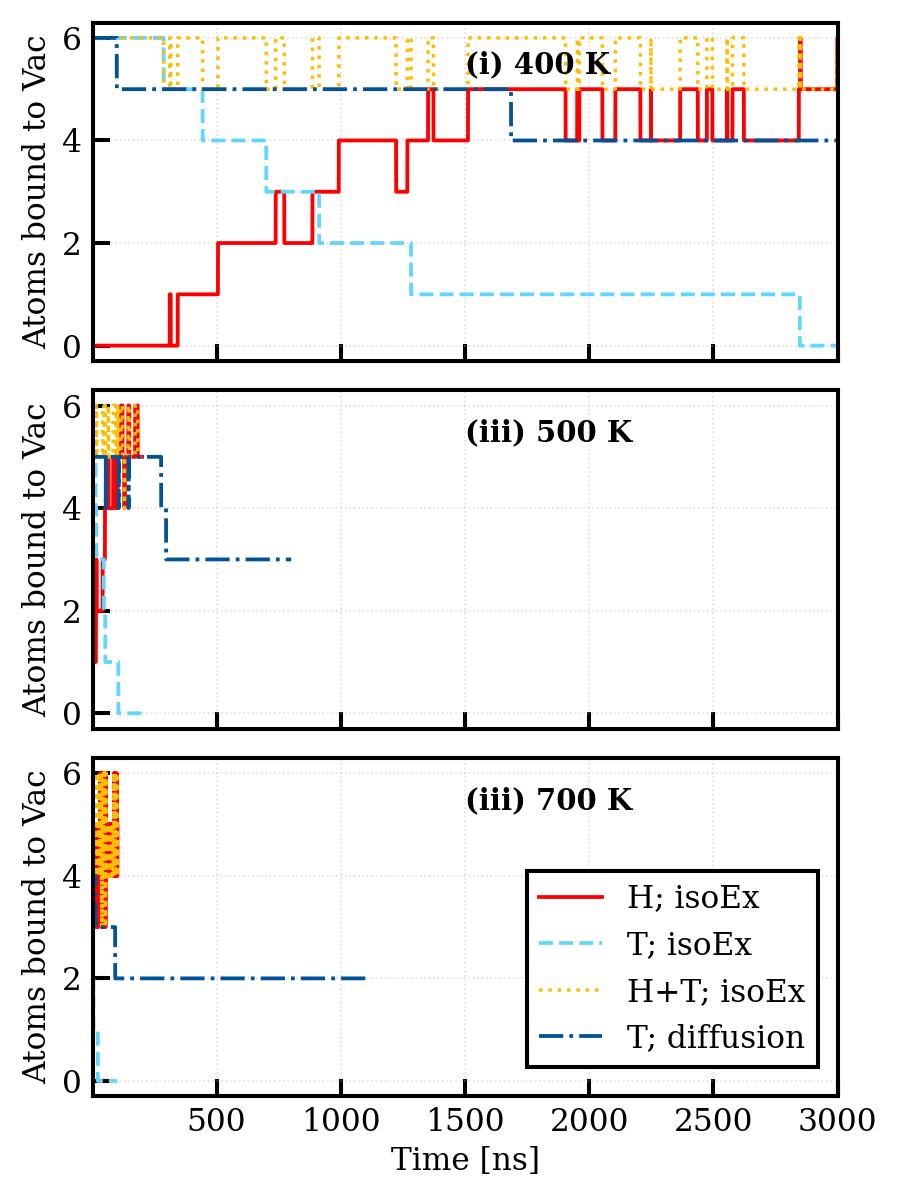
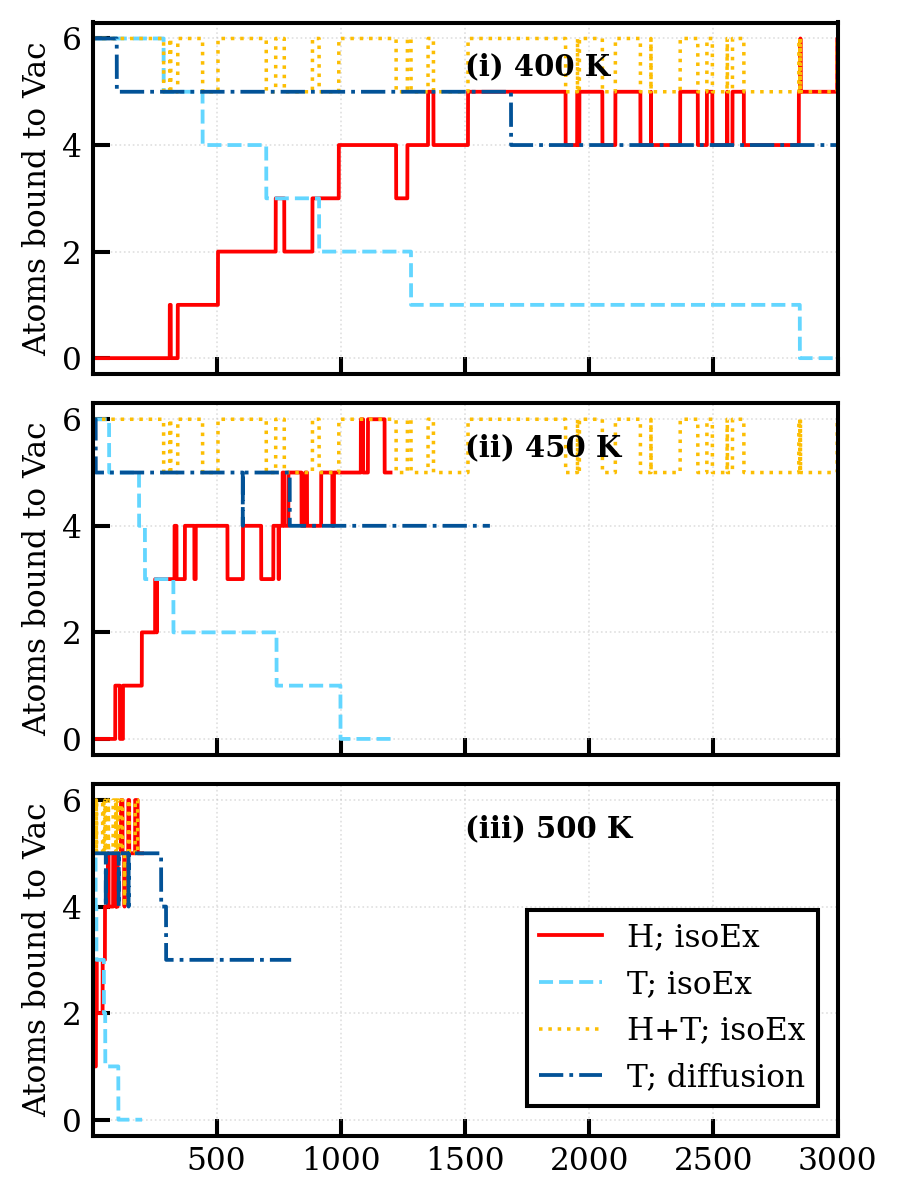
drop 700K data from 1Vac plots

diff --git a/plotting-scripts/plot_1Vac_isoEx_comp.py b/plotting-scripts/plot_1Vac_isoEx_comp.py
@@ -10,24 +10,24 @@ path += '1Vac_isoEx_results/'
 
 # HinVac.out format: Timestep NTinVac NHinVac NTinCell
 tTH_isoEx_400K = readData(path+'1Vac_2000W_20H_6T_400K_3100ns/HinVac.out', [0,1,2])
-#tTH_isoEx_450K = readData(path+'1Vac_2000W_20H_6T_450K_1200ns/HinVac.out', [0,1,2])
+tTH_isoEx_450K = readData(path+'1Vac_2000W_20H_6T_450K_1200ns/HinVac.out', [0,1,2])
 tTH_isoEx_500K = readData(path+'1Vac_2000W_20H_6T_500K_200ns/HinVac.out', [0,1,2])
 tTH_isoEx_700K = readData(path+'1Vac_2000W_20H_6T_700K_100ns/HinVac.out', [0,1,2])
 tT_diff_400K = readData(path+'1Vac_2000W_0H_6T_400K_3200ns/HinVac.out', [0,1])
-#tT_diff_450K = readData(path+'1Vac_2000W_0H_6T_450K_1600ns/HinVac.out', [0,1]) 
+tT_diff_450K = readData(path+'1Vac_2000W_0H_6T_450K_1600ns/HinVac.out', [0,1]) 
 tT_diff_500K = readData(path+'1Vac_2000W_0H_6T_500K_800ns/HinVac.out', [0,1])
-tT_diff_700K = readData(path+'1Vac_2000W_0H_6T_700K_1100ns/HinVac.out', [0,1]) 
+#tT_diff_700K = readData(path+'1Vac_2000W_0H_6T_700K_1100ns/HinVac.out', [0,1]) 
 
 # Convert timesteps --> time in ns
 cf = 1e-6
 tTH_isoEx_400K[:,0] *= cf
-#tTH_isoEx_450K[:,0] *= cf
+tTH_isoEx_450K[:,0] *= cf
 tTH_isoEx_500K[:,0] *= cf
-tTH_isoEx_700K[:,0] *= cf
+#tTH_isoEx_700K[:,0] *= cf
 tT_diff_400K[:,0] *= cf
-#tT_diff_450K[:,0] *= cf
+tT_diff_450K[:,0] *= cf
 tT_diff_500K[:,0] *= cf
-tT_diff_700K[:,0] *= cf
+#tT_diff_700K[:,0] *= cf
 
 
 # ============================== PLOT STUFF =============================
@@ -64,20 +64,20 @@ plt.text(1500, 5.3, '(i) 400 K', font)
 plt.gca().axes.get_xaxis().set_ticklabels([]) # Hide x-axis tick labels
 
 # 450 K
-# plt.subplot(3,1,2)
-# init, step, final = [0,10,-1]
-# plotter(tTH_isoEx_450K[init:final:step, 0], tTH_isoEx_450K[init:final:step, 2], isoEx_style['H_iso'], isoEx_labels['H_iso'])
-# plotter(tTH_isoEx_450K[init:final:step, 0], tTH_isoEx_450K[init:final:step, 1], isoEx_style['T_iso'], isoEx_labels['T_iso'])
-# plotter(tTH_isoEx_400K[init:final:step, 0], tTH_isoEx_400K[init:final:step,1]+tTH_isoEx_400K[init:final:step,2], isoEx_style['H+T'], isoEx_labels['H+T'])
-# plotter(tT_diff_450K[:, 0], tT_diff_450K[:, 1], isoEx_style['T_diff'], isoEx_labels['T_diff'])
-# plt.xlim((1, xulim))
-# #plt.xlabel(xlbl)
-# plt.ylabel(ylbl)
-# plt.text(1500, 5.3, '(ii) 450 K', font)
-# plt.gca().axes.get_xaxis().set_ticklabels([]) # Hide x-axis tick labels
+plt.subplot(3,1,2)
+init, step, final = [0,10,-1]
+plotter(tTH_isoEx_450K[init:final:step, 0], tTH_isoEx_450K[init:final:step, 2], isoEx_style['H_iso'], isoEx_labels['H_iso'])
+plotter(tTH_isoEx_450K[init:final:step, 0], tTH_isoEx_450K[init:final:step, 1], isoEx_style['T_iso'], isoEx_labels['T_iso'])
+plotter(tTH_isoEx_400K[init:final:step, 0], tTH_isoEx_400K[init:final:step,1]+tTH_isoEx_400K[init:final:step,2], isoEx_style['H+T'], isoEx_labels['H+T'])
+plotter(tT_diff_450K[:, 0], tT_diff_450K[:, 1], isoEx_style['T_diff'], isoEx_labels['T_diff'])
+plt.xlim((1, xulim))
+#plt.xlabel(xlbl)
+plt.ylabel(ylbl)
+plt.text(1500, 5.3, '(ii) 450 K', font)
+plt.gca().axes.get_xaxis().set_ticklabels([]) # Hide x-axis tick labels
 
 # 500 K
-plt.subplot(3,1,2)
+plt.subplot(3,1,3)
 init, step, final = [0,10,-1]
 plotter(tTH_isoEx_500K[init:final:step, 0], tTH_isoEx_500K[init:final:step, 2], isoEx_style['H_iso'], isoEx_labels['H_iso'])
 plotter(tTH_isoEx_500K[init:final:step, 0], tTH_isoEx_500K[init:final:step, 1], isoEx_style['T_iso'], isoEx_labels['T_iso'])
@@ -86,20 +86,20 @@ plotter(tT_diff_500K[:, 0], tT_diff_500K[:, 1], isoEx_style['T_diff'], isoEx_lab
 plt.xlim((1, xulim))
 plt.ylabel(ylbl)
 plt.text(1500, 5.3, '(iii) 500 K', font)
-plt.gca().axes.get_xaxis().set_ticklabels([]) # Hide x-axis tick labels
-
-# 700 K
-plt.subplot(3,1,3)
-plotter(tTH_isoEx_700K[init:final:step, 0], tTH_isoEx_700K[init:final:step,2], isoEx_style['H_iso'], isoEx_labels['H_iso'])
-plotter(tTH_isoEx_700K[init:final:step, 0], tTH_isoEx_700K[init:final:step,1], isoEx_style['T_iso'], isoEx_labels['T_iso'])
-plotter(tTH_isoEx_700K[init:final:step, 0], tTH_isoEx_700K[init:final:step,1]+tTH_isoEx_700K[init:final:step,2], isoEx_style['H+T'], isoEx_labels['H+T'])
-plotter(tT_diff_700K[init:final:step, 0], tT_diff_700K[init:final:step, 1], isoEx_style['T_diff'], isoEx_labels['T_diff'])
-plt.xlim((1, xulim))
-plt.xlabel(xlbl)
-plt.ylabel(ylbl)
 leg = plt.legend(loc='lower right', bbox_to_anchor=(0.99, 0.05))
 leg.get_frame().set_linewidth(1.5*pltm)  # Legend bow linewidth
-plt.text(1500, 5.3, '(iii) 700 K', font)
+#plt.gca().axes.get_xaxis().set_ticklabels([]) # Hide x-axis tick labels
+
+# 700 K
+#plt.subplot(3,1,3)
+#plotter(tTH_isoEx_700K[init:final:step, 0], tTH_isoEx_700K[init:final:step,2], isoEx_style['H_iso'], isoEx_labels['H_iso'])
+#plotter(tTH_isoEx_700K[init:final:step, 0], tTH_isoEx_700K[init:final:step,1], isoEx_style['T_iso'], isoEx_labels['T_iso'])
+#plotter(tTH_isoEx_700K[init:final:step, 0], tTH_isoEx_700K[init:final:step,1]+tTH_isoEx_700K[init:final:step,2], isoEx_style['H+T'], isoEx_labels['H+T'])
+#plotter(tT_diff_700K[init:final:step, 0], tT_diff_700K[init:final:step, 1], isoEx_style['T_diff'], isoEx_labels['T_diff'])
+#plt.xlim((1, xulim))
+#plt.xlabel(xlbl)
+#plt.ylabel(ylbl)
+#plt.text(1500, 5.3, '(iii) 700 K', font)
 
 # Show & save figure
 plt.tight_layout()
@@ -128,20 +128,20 @@ plt.text(2, 5.3, '(i) 400 K', font)
 plt.gca().axes.get_xaxis().set_ticklabels([]) # Hide x-axis tick labels
 
 # 450 K
-# plt.subplot(3,1,2)
-# init, step, final = [0,10,-1]
-# plotter(tTH_isoEx_450K[init:final:step, 0], tTH_isoEx_450K[init:final:step, 2], isoEx_style['H_iso'], isoEx_labels['H_iso'])
-# plotter(tTH_isoEx_450K[init:final:step, 0], tTH_isoEx_450K[init:final:step, 1], isoEx_style['T_iso'], isoEx_labels['T_iso'])
-# plotter(tTH_isoEx_450K[init:final:step, 0], tTH_isoEx_450K[init:final:step,1]+tTH_isoEx_450K[init:final:step,2], isoEx_style['H+T'], isoEx_labels['H+T'])
-# plotter(tT_diff_450K[:, 0], tT_diff_450K[:, 1], isoEx_style['T_diff'], isoEx_labels['T_diff'])
-# plt.xlim((1, xulim))
+plt.subplot(3,1,2)
+init, step, final = [0,10,-1]
+plotter(tTH_isoEx_450K[init:final:step, 0], tTH_isoEx_450K[init:final:step, 2], isoEx_style['H_iso'], isoEx_labels['H_iso'])
+plotter(tTH_isoEx_450K[init:final:step, 0], tTH_isoEx_450K[init:final:step, 1], isoEx_style['T_iso'], isoEx_labels['T_iso'])
+plotter(tTH_isoEx_450K[init:final:step, 0], tTH_isoEx_450K[init:final:step,1]+tTH_isoEx_450K[init:final:step,2], isoEx_style['H+T'], isoEx_labels['H+T'])
+plotter(tT_diff_450K[:, 0], tT_diff_450K[:, 1], isoEx_style['T_diff'], isoEx_labels['T_diff'])
+plt.xlim((1, xulim))
 # #plt.xlabel(xlbl)
-# plt.ylabel(ylbl)
-# plt.text(2, 5.3, '(ii) 450 K', font)
-# plt.gca().axes.get_xaxis().set_ticklabels([]) # Hide x-axis tick labels
+plt.ylabel(ylbl)
+plt.text(2, 5.3, '(ii) 450 K', font)
+plt.gca().axes.get_xaxis().set_ticklabels([]) # Hide x-axis tick labels
 
 # 500 K
-plt.subplot(3,1,2)
+plt.subplot(3,1,3)
 init, step, final = [0,10,-1]
 plotter(tTH_isoEx_500K[init:final:step, 0], tTH_isoEx_500K[init:final:step, 2], isoEx_style['H_iso'], isoEx_labels['H_iso'])
 plotter(tTH_isoEx_500K[init:final:step, 0], tTH_isoEx_500K[init:final:step, 1], isoEx_style['T_iso'], isoEx_labels['T_iso'])
@@ -150,18 +150,18 @@ plotter(tT_diff_500K[:, 0], tT_diff_500K[:, 1], isoEx_style['T_diff'], isoEx_lab
 plt.xlim((1, xulim))
 plt.ylabel(ylbl)
 plt.text(2, 5.3, '(iii) 500 K', font)
-plt.gca().axes.get_xaxis().set_ticklabels([]) # Hide x-axis tick labels
+#plt.gca().axes.get_xaxis().set_ticklabels([]) # Hide x-axis tick labels
 
 # 700 K
-plt.subplot(3,1,3)
-plotter(tTH_isoEx_700K[init:final:step, 0], tTH_isoEx_700K[init:final:step,2], isoEx_style['H_iso'], isoEx_labels['H_iso'])
-plotter(tTH_isoEx_700K[init:final:step, 0], tTH_isoEx_700K[init:final:step,1], isoEx_style['T_iso'], isoEx_labels['T_iso'])
-plotter(tTH_isoEx_700K[init:final:step, 0], tTH_isoEx_700K[init:final:step,1]+tTH_isoEx_700K[init:final:step,2], isoEx_style['H+T'], isoEx_labels['H+T'])
-plotter(tT_diff_700K[init:final:step, 0], tT_diff_700K[init:final:step, 1], isoEx_style['T_diff'], isoEx_labels['T_diff'])
-plt.xlim((1, xulim))
-plt.xlabel(xlbl)
-plt.ylabel(ylbl)
-plt.text(2, 5.3, '(iii) 700 K', font)
+#plt.subplot(3,1,3)
+#plotter(tTH_isoEx_700K[init:final:step, 0], tTH_isoEx_700K[init:final:step,2], isoEx_style['H_iso'], isoEx_labels['H_iso'])
+#plotter(tTH_isoEx_700K[init:final:step, 0], tTH_isoEx_700K[init:final:step,1], isoEx_style['T_iso'], isoEx_labels['T_iso'])
+#plotter(tTH_isoEx_700K[init:final:step, 0], tTH_isoEx_700K[init:final:step,1]+tTH_isoEx_700K[init:final:step,2], isoEx_style['H+T'], isoEx_labels['H+T'])
+#plotter(tT_diff_700K[init:final:step, 0], tT_diff_700K[init:final:step, 1], isoEx_style['T_diff'], isoEx_labels['T_diff'])
+#plt.xlim((1, xulim))
+#plt.xlabel(xlbl)
+#plt.ylabel(ylbl)
+#plt.text(2, 5.3, '(iii) 700 K', font)
 
 # Show & save figure
 plt.tight_layout()

diff --git a/plotting-scripts/plot_2Vac_isoEx_comp.py b/plotting-scripts/plot_2Vac_isoEx_comp.py
@@ -12,9 +12,9 @@ path += '2Vac_isoEx_results/'
 tTH_isoEx = readData(path+'2Vac_2000W_20H_10T_500K_500ns/HinVac.out', [0,1,2])
 tTH_diff  = readData(path+'2Vac_2000W_0H_10T_500K_1000ns/HinVac.out', [0,1,2])
 tTH_isoEx_400K = readData(path+'2Vac_2000W_20H_10T_400K_700ns/HinVac.out', [0,1,2])
-tT_diff_400K  = readData(path+'2Vac_2000W_0H_10T_400K_700ns/HinVac.out', [0,1,2])
-tTH_isoEx_700K = readData(path+'2Vac_2000W_20H_10T_700K_100ns/HinVac.out', [0,1,2])
-tT_diff_700K  = readData(path+'2Vac_2000W_0H_10T_700K_1000ns/HinVac.out', [0,1,2])
+tT_diff_400K  = readData(path+'2Vac_2000W_0H_10T_400K_500ns/HinVac.out', [0,1,2])
+#tTH_isoEx_700K = readData(path+'2Vac_2000W_20H_10T_700K_100ns/HinVac.out', [0,1,2])
+#tT_diff_700K  = readData(path+'2Vac_2000W_0H_10T_700K_1000ns/HinVac.out', [0,1,2])
 
 # Convert timesteps --> time in ns
 cf = 1e-6
@@ -22,15 +22,15 @@ tTH_isoEx[:,0] *= cf
 tTH_diff[:,0]  *= cf
 tTH_isoEx_400K[:,0] *= cf
 tT_diff_400K[:,0]  *= cf
-tTH_isoEx_700K[:,0] *= cf
-tT_diff_700K[:,0]  *= cf
+#tTH_isoEx_700K[:,0] *= cf
+#tT_diff_700K[:,0]  *= cf
 
 
 # ============================== PLOT STUFF =============================
 print('Drawing figures ...')
 
 # Figure dimensions [x, y]
-fsize = [6.0, 8.0]
+fsize = [6.0, 5.0]
 
 # Upper x-axis limit [ns]
 xulim = 2000.0
@@ -48,7 +48,7 @@ def plotter(x, y, isoExStle, lbl):
 
 init, final, step = [0,-1,70]
 # 400 K
-plt.subplot(3,1,1)
+plt.subplot(2,1,1)
 plotter(tT_diff_400K[:, 0], tT_diff_400K[:, 1], isoEx_style['T_diff'], isoEx_labels['T_diff'])
 plotter(tTH_isoEx_400K[init:final:step, 0], tTH_isoEx_400K[init:final:step, 2], isoEx_style['H_iso'], isoEx_labels['H_iso'])
 plotter(tTH_isoEx_400K[init:final:step, 0], tTH_isoEx_400K[init:final:step, 1], isoEx_style['T_iso'], isoEx_labels['T_iso'])
@@ -60,7 +60,7 @@ plt.text(800, 10.4, '(i) 400 K', font)
 plt.gca().axes.get_xaxis().set_ticklabels([]) # Hide x-axis tick labels
 
 # 500 K
-plt.subplot(3,1,2)
+plt.subplot(2,1,2)
 plotter(tTH_isoEx[init:final:step, 0], tTH_isoEx[init:final:step,2], isoEx_style['H_iso'], isoEx_labels['H_iso'])
 plotter(tTH_isoEx[init:final:step, 0], tTH_isoEx[init:final:step,1], isoEx_style['T_iso'], isoEx_labels['T_iso'])
 plotter(tTH_isoEx[init:final:step, 0], tTH_isoEx[init:final:step,1]+tTH_isoEx[init:final:step,2], isoEx_style['H+T'], isoEx_labels['H+T'])
@@ -69,21 +69,21 @@ plt.xlim((1, xulim))
 plt.ylim((0,12))
 plt.ylabel(ylbl)
 plt.text(800, 10.4, '(ii) 500 K', font)
-plt.gca().axes.get_xaxis().set_ticklabels([]) # Hide x-axis tick labels
-
-# 700 K
-plt.subplot(3,1,3)
-plotter(tTH_isoEx_700K[init:final:step, 0], tTH_isoEx_700K[init:final:step,2], isoEx_style['H_iso'], isoEx_labels['H_iso'])
-plotter(tTH_isoEx_700K[init:final:step, 0], tTH_isoEx_700K[init:final:step,1], isoEx_style['T_iso'], isoEx_labels['T_iso'])
-plotter(tTH_isoEx_700K[init:final:step, 0], tTH_isoEx_700K[init:final:step,1]+tTH_isoEx_700K[init:final:step,2], isoEx_style['H+T'], isoEx_labels['H+T'])
-plotter(tT_diff_700K[init:final:step, 0], tT_diff_700K[init:final:step, 1], isoEx_style['T_diff'], isoEx_labels['T_diff'])
-plt.xlim((1, xulim))
-plt.ylim((0,12))
-plt.xlabel(xlbl)
-plt.ylabel(ylbl)
 leg = plt.legend(loc='lower right', bbox_to_anchor=(0.99, 0.04))
 leg.get_frame().set_linewidth(1.5*pltm)  # Legend bow linewidth
-plt.text(800, 10.4, '(iii) 700 K', font)
+#plt.gca().axes.get_xaxis().set_ticklabels([]) # Hide x-axis tick labels
+
+# 700 K
+#plt.subplot(3,1,3)
+#plotter(tTH_isoEx_700K[init:final:step, 0], tTH_isoEx_700K[init:final:step,2], isoEx_style['H_iso'], isoEx_labels['H_iso'])
+#plotter(tTH_isoEx_700K[init:final:step, 0], tTH_isoEx_700K[init:final:step,1], isoEx_style['T_iso'], isoEx_labels['T_iso'])
+#plotter(tTH_isoEx_700K[init:final:step, 0], tTH_isoEx_700K[init:final:step,1]+tTH_isoEx_700K[init:final:step,2], isoEx_style['H+T'], isoEx_labels['H+T'])
+#plotter(tT_diff_700K[init:final:step, 0], tT_diff_700K[init:final:step, 1], isoEx_style['T_diff'], isoEx_labels['T_diff'])
+#plt.xlim((1, xulim))
+#plt.ylim((0,12))
+#plt.xlabel(xlbl)
+#plt.ylabel(ylbl)
+#plt.text(800, 10.4, '(iii) 700 K', font)
 
 # Show & save figure
 plt.tight_layout()
@@ -99,7 +99,7 @@ def plotter(x, y, isoExStle, lbl):
 
 init, final, step = [0,-1,70]
 # 400 K
-plt.subplot(3,1,1)
+plt.subplot(2,1,1)
 plotter(tT_diff_400K[:, 0], tT_diff_400K[:, 1], isoEx_style['T_diff'], isoEx_labels['T_diff'])
 plotter(tTH_isoEx_400K[init:final:step, 0], tTH_isoEx_400K[init:final:step, 2], isoEx_style['H_iso'], isoEx_labels['H_iso'])
 plotter(tTH_isoEx_400K[init:final:step, 0], tTH_isoEx_400K[init:final:step, 1], isoEx_style['T_iso'], isoEx_labels['T_iso'])
@@ -111,7 +111,7 @@ plt.text(400, 10.4, '(i) 400 K', font)
 plt.gca().axes.get_xaxis().set_ticklabels([]) # Hide x-axis tick labels
 
 # 500 K
-plt.subplot(3,1,2)
+plt.subplot(2,1,2)
 plotter(tTH_isoEx[init:final:step, 0], tTH_isoEx[init:final:step,2], isoEx_style['H_iso'], isoEx_labels['H_iso'])
 plotter(tTH_isoEx[init:final:step, 0], tTH_isoEx[init:final:step,1], isoEx_style['T_iso'], isoEx_labels['T_iso'])
 plotter(tTH_isoEx[init:final:step, 0], tTH_isoEx[init:final:step,1]+tTH_isoEx[init:final:step,2], isoEx_style['H+T'], isoEx_labels['H+T'])
@@ -120,19 +120,19 @@ plt.xlim((1, xulim))
 plt.ylim((0,12))
 plt.ylabel(ylbl)
 plt.text(360, 10.4, '(ii) 500 K', font)
-plt.gca().axes.get_xaxis().set_ticklabels([]) # Hide x-axis tick labels
+#plt.gca().axes.get_xaxis().set_ticklabels([]) # Hide x-axis tick labels
 
 # 700 K
-plt.subplot(3,1,3)
-plotter(tTH_isoEx_700K[init:final:step, 0], tTH_isoEx_700K[init:final:step,2], isoEx_style['H_iso'], isoEx_labels['H_iso'])
-plotter(tTH_isoEx_700K[init:final:step, 0], tTH_isoEx_700K[init:final:step,1], isoEx_style['T_iso'], isoEx_labels['T_iso'])
-plotter(tTH_isoEx_700K[init:final:step, 0], tTH_isoEx_700K[init:final:step,1]+tTH_isoEx_700K[init:final:step,2], isoEx_style['H+T'], isoEx_labels['H+T'])
-plotter(tT_diff_700K[init:final:step, 0], tT_diff_700K[init:final:step, 1], isoEx_style['T_diff'], isoEx_labels['T_diff'])
-plt.xlim((1, xulim))
-plt.ylim((0,12))
-plt.xlabel(xlbl)
-plt.ylabel(ylbl)
-plt.text(325, 10.4, '(iii) 700 K', font)
+#plt.subplot(3,1,3)
+#plotter(tTH_isoEx_700K[init:final:step, 0], tTH_isoEx_700K[init:final:step,2], isoEx_style['H_iso'], isoEx_labels['H_iso'])
+#plotter(tTH_isoEx_700K[init:final:step, 0], tTH_isoEx_700K[init:final:step,1], isoEx_style['T_iso'], isoEx_labels['T_iso'])
+#plotter(tTH_isoEx_700K[init:final:step, 0], tTH_isoEx_700K[init:final:step,1]+tTH_isoEx_700K[init:final:step,2], isoEx_style['H+T'], isoEx_labels['H+T'])
+#plotter(tT_diff_700K[init:final:step, 0], tT_diff_700K[init:final:step, 1], isoEx_style['T_diff'], isoEx_labels['T_diff'])
+#plt.xlim((1, xulim))
+#plt.ylim((0,12))
+#plt.xlabel(xlbl)
+#plt.ylabel(ylbl)
+#plt.text(325, 10.4, '(iii) 700 K', font)
 
 # Show & save figure
 plt.tight_layout()
